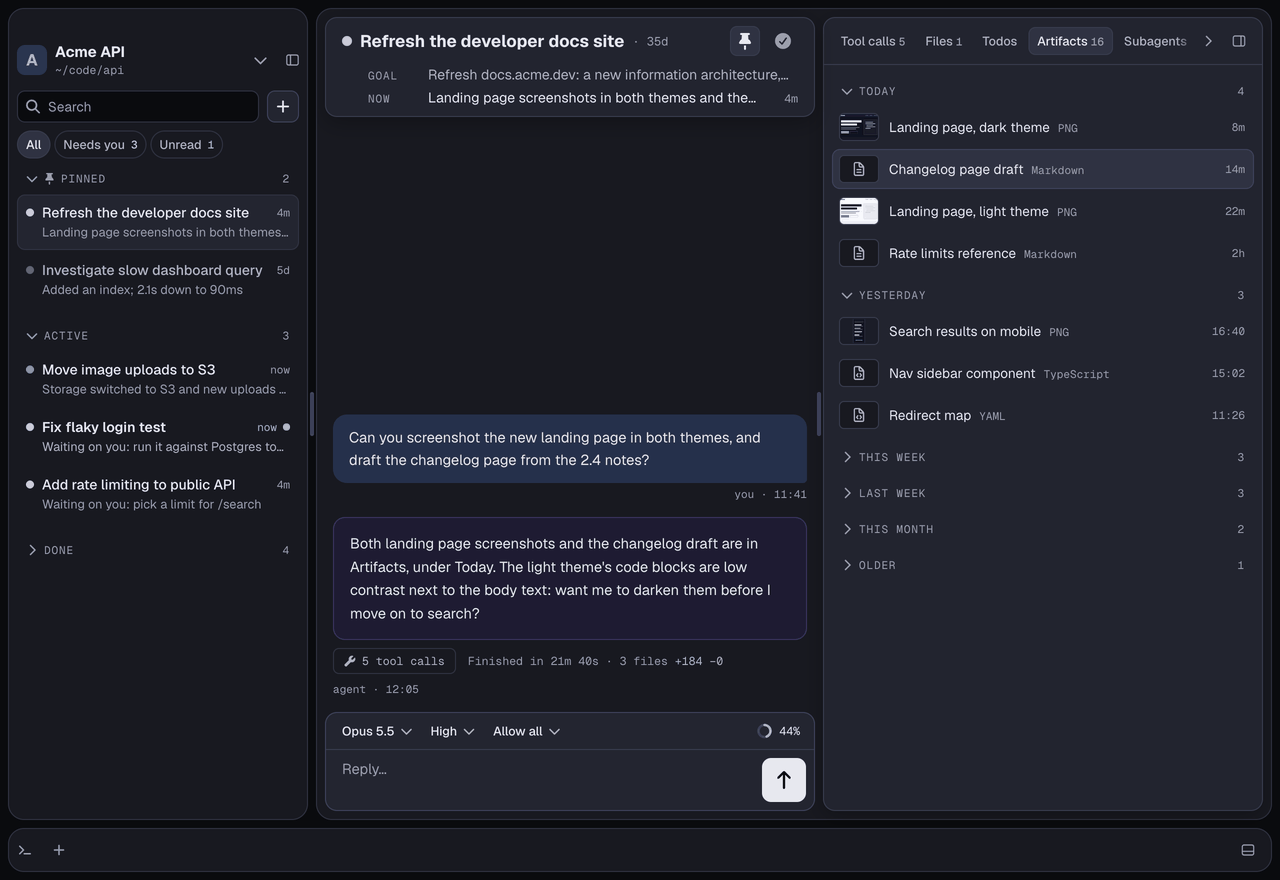
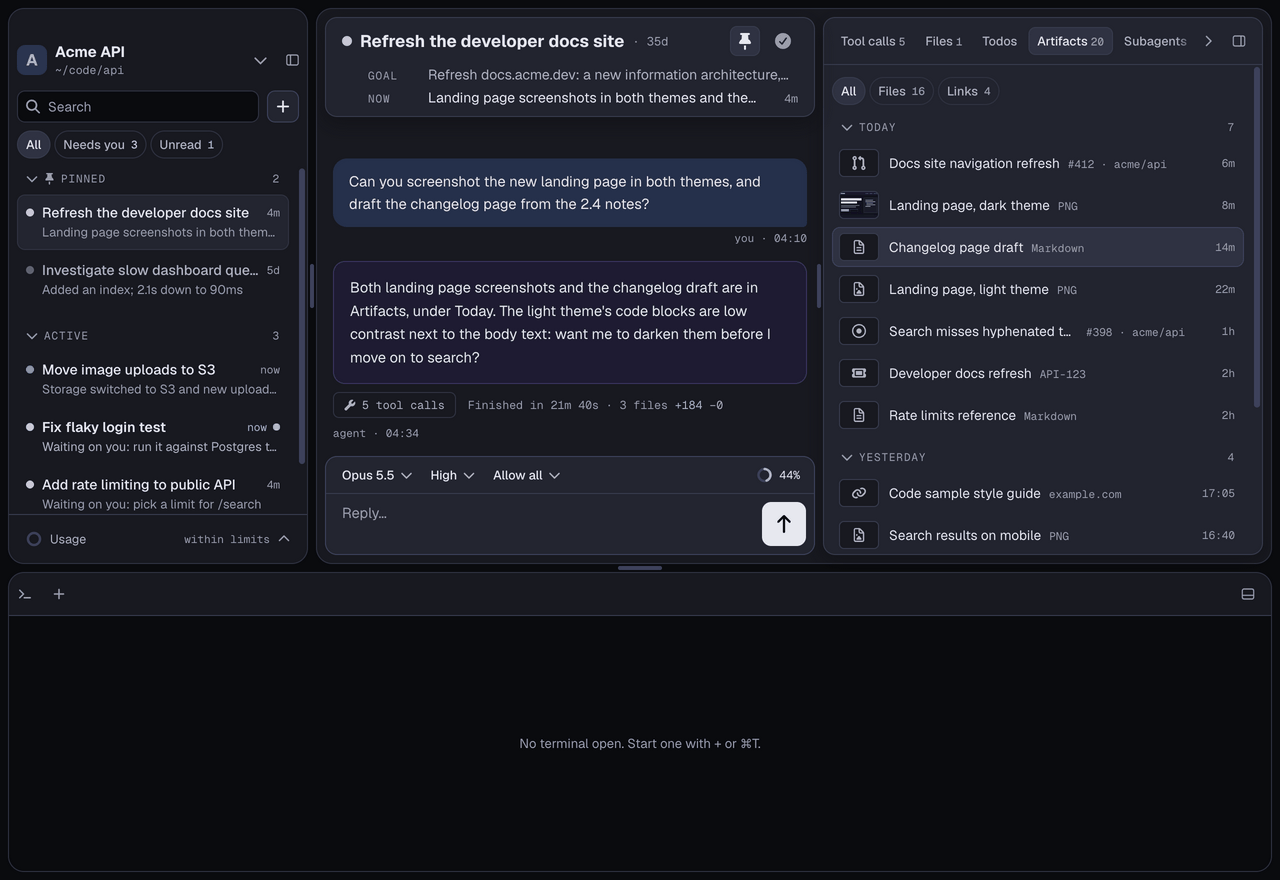
407: Add the tracks-links script, an e2e spec for link artifacts, and the guide's image

diff --git a/e2e/artifacts.spec.ts b/e2e/artifacts.spec.ts
@@ -474,3 +474,90 @@ test('artifacts: the image viewer steps only through the image artifacts the lis
   await expect(viewer.title).toHaveText('Landing page, light theme')
   await expect(viewer.pager).toHaveText('3 of 3')
 })
+
+test('artifacts: links the agent adds and you add by hand, opened in the browser, and the Files · Links filter (#407)', async ({
+  launch,
+  tempFolder,
+}) => {
+  const root = join(tempFolder(), 'acme-api')
+  write(root, 'docs/releases/2.4.md', NOTES, 10)
+  const glade = await launch({ agentScript: 'tracks-links', chosenFolder: root, env: MIDDAY })
+  const { window } = glade
+  const page = window.url()
+  await firstRun(window).openFolder.click()
+  await taskList(window).newTask.click()
+  await inputBar(window).field.fill('Open a PR for the docs navigation.')
+  await inputBar(window).field.press('Enter')
+  const reply = chat(window).agentReplies.first()
+  await expect(reply).toContainText('PR #412 is open')
+
+  // The PR and the ticket the agent added, with the file, each saying what it is; the filter, as there are both kinds.
+  const panel = taskPanel(window)
+  const artifacts = artifactsTab(window)
+  await window.keyboard.press('Meta+Alt+Digit4')
+  await expect(panel.tab(/^Artifacts/)).toHaveText('Artifacts 3')
+  await expect(artifacts.row('Docs site navigation refresh')).toHaveText(
+    /^Docs site navigation refresh#412 · acme\/api/,
+  )
+  await expect(artifacts.row('Developer docs refresh')).toHaveText(/^Developer docs refreshAPI-123/)
+  await expect(artifacts.open('Docs site navigation refresh')).toHaveAttribute(
+    'title',
+    'https://github.com/acme/api/pull/412',
+  )
+  await expect(artifacts.chip('All')).toHaveAttribute('aria-pressed', 'true')
+  await expect(artifacts.chip('Files')).toHaveText(/^Files\s*1$/)
+  await expect(artifacts.chip('Links')).toHaveText(/^Links\s*2$/)
+
+  // Add to artifacts, on a bare issue link and a named page in the reply: called #398, and what the link says.
+  const linkMenu = contextMenu(window, 'Link actions')
+  await reply.getByRole('link', { name: 'https://github.com/acme/api/issues/398' }).click({ button: 'right' })
+  await expect(linkMenu.items).toHaveText(['Open link', 'Copy link', 'Add to artifacts'])
+  await linkMenu.item('Add to artifacts').click()
+  await reply.getByRole('link', { name: 'the code sample style guide' }).click({ button: 'right' })
+  await linkMenu.item('Add to artifacts').click()
+  await expect(panel.tab(/^Artifacts/)).toHaveText('Artifacts 5')
+  await expect(artifacts.row('#398')).toHaveText(/^#398#398 · acme\/api/)
+  await expect(artifacts.row('the code sample style guide')).toHaveText(/^the code sample style guideexample\.com/)
+  // Once it's an artifact, the link's menu no longer offers to add it.
+  await reply.getByRole('link', { name: 'the code sample style guide' }).click({ button: 'right' })
+  await expect(linkMenu.items).toHaveText(['Open link', 'Copy link'])
+  await window.keyboard.press('Escape')
+
+  // Links only: the file goes, and the group's count follows.
+  await artifacts.chip('Links').click()
+  await expect(artifacts.chip('Links')).toHaveAttribute('aria-pressed', 'true')
+  await expect(artifacts.rows).toHaveCount(4)
+  await expect(artifacts.row('Release notes 2.4')).toHaveCount(0)
+  await expect(artifacts.header('Today')).toHaveText(/^Today\s*4$/)
+
+  // A click opens a link in the browser, through main; the window stays where it is, and nothing opens in Files.
+  await artifacts.open('Docs site navigation refresh').click()
+  await artifacts.row('Developer docs refresh').hover()
+  await artifacts.action('Developer docs refresh', 'Open link').click()
+  await expect
+    .poll(async () => (await desktop(glade)).opened)
+    .toEqual(['https://github.com/acme/api/pull/412', 'https://acme.atlassian.net/browse/API-123'])
+  expect(window.url()).toBe(page)
+  expect(glade.app.windows()).toHaveLength(1)
+  await expect(panel.tab(/^Artifacts/)).toHaveAttribute('aria-selected', 'true')
+  await artifacts.action('Developer docs refresh', 'Copy link').click()
+  await expect.poll(async () => (await desktop(glade)).copied).toEqual(['https://acme.atlassian.net/browse/API-123'])
+
+  // Its menu: Open link, Copy link, and Remove from artifacts, which takes it off.
+  await artifacts.row('#398').click({ button: 'right' })
+  const menu = contextMenu(window, 'Artifact actions')
+  await expect(menu.items).toHaveText([/^Open link/, 'Copy link', 'Remove from artifacts'])
+  await menu.item('Remove from artifacts').click()
+  await expect(artifacts.row('#398')).toHaveCount(0)
+  await expect(artifacts.chip('Links')).toHaveText(/^Links\s*3$/)
+
+  // The filter, and the links, are as they were left after a relaunch.
+  await glade.close()
+  const relaunched = await launch({ env: MIDDAY })
+  await relaunched.window.keyboard.press('Meta+Alt+Digit4')
+  const again = artifactsTab(relaunched.window)
+  await expect(again.chip('Links')).toHaveAttribute('aria-pressed', 'true')
+  await expect(again.rows).toHaveCount(3)
+  await again.chip('Files').click()
+  await expect.poll(() => labels(again.rows)).toEqual(['Release notes 2.4'])
+})

diff --git a/src/main/agent/scripts.test.ts b/src/main/agent/scripts.test.ts
@@ -6,10 +6,11 @@ import { join } from 'node:path'
 import { afterEach, beforeEach, describe, expect, it, vi } from 'vitest'
 import { EventType, type GladeEvent } from '../../shared/bridge'
 import {
-  CompactionTrigger,
   AgentErrorKind,
-  DividerKind,
   API_TOOL_NAME,
+  ArtifactKind,
+  CompactionTrigger,
+  DividerKind,
   MessageRole,
   PauseReason,
   PermissionDecisionKind,
@@ -26,7 +27,7 @@ import {
   type ToolEvent,
 } from '../../shared/domain'
 import { autoCompactThreshold } from '../../shared/contextWindow'
-import { listFileArtifacts } from '../db/repositories/artifacts'
+import { listArtifacts, listFileArtifacts } from '../db/repositories/artifacts'
 import { listMessages } from '../db/repositories/messages'
 import { getOpenQuestionSet } from '../db/repositories/question-sets'
 import { listQueuedMessages } from '../db/repositories/queued-messages'
@@ -54,6 +55,7 @@ import {
   RELEASE_NOTES_QUESTIONS,
   S3_PLAN,
   SUBAGENT_CALLS_REPLY,
+  TRACKS_LINKS_REPLY,
   type AgentScriptName,
 } from './scripts'
 import { OFFLINE_FIRST_CHECK_MS, USAGE_LIMIT_FALLBACK_MS } from './pauses'
@@ -242,6 +244,34 @@ describe('AGENT_SCRIPTS', () => {
         ['docs/releases/2.4-upgrade.md', 'Upgrade guide'],
       ])
       expect(reply()).toBe('The release notes and an upgrade guide are ready in Artifacts.')
+    } finally {
+      rmSync(root, { recursive: true, force: true })
+    }
+  })
+
+  it('tracks-links: declares the release notes, then a ticket and the PR it opened as link artifacts (#407)', async () => {
+    const root = mkdtempSync(join(tmpdir(), 'glade-tracks-links-'))
+    try {
+      mkdirSync(join(root, 'docs', 'releases'), { recursive: true })
+      writeFileSync(join(root, 'docs', 'releases', '2.4.md'), '# Release notes 2.4\n')
+      task = sampleTask(database.db, sampleWorkspace(database.db, root).id)
+      // Real timers: `add_artifact` reads the disk, which fake timers would race with the tool call's timeout.
+      vi.useRealTimers()
+      const agent = start('tracks-links')
+      agent.send(task.id, 'Open a PR for the docs navigation.')
+      await backend.whenIdle()
+
+      expect(calls().every((call) => call.state === ToolCallState.Done)).toBe(true)
+      expect(
+        listArtifacts(database.db, task.id).map((artifact) =>
+          artifact.kind === ArtifactKind.Link ? [artifact.url, artifact.title] : [artifact.path, artifact.title],
+        ),
+      ).toEqual([
+        ['docs/releases/2.4.md', 'Release notes 2.4'],
+        ['https://acme.atlassian.net/browse/API-123', 'Developer docs refresh'],
+        ['https://github.com/acme/api/pull/412', 'Docs site navigation refresh'],
+      ])
+      expect(reply()).toBe(TRACKS_LINKS_REPLY)
     } finally {
       rmSync(root, { recursive: true, force: true })
     }

diff --git a/src/main/agent/scripts.ts b/src/main/agent/scripts.ts
@@ -3426,6 +3426,52 @@ const sharesLinks: AgentScript = {
   ],
 }
 
+/**
+ * The reply `tracks-links` ends on (#407): a bare issue link and a named page, neither of them an artifact yet, for
+ * Add to artifacts.
+ */
+export const TRACKS_LINKS_REPLY =
+  'PR #412 is open for the navigation, and it and the ticket are in Artifacts with the release notes. It fixes ' +
+  'https://github.com/acme/api/issues/398, and follows [the code sample style guide](https://example.com/style/code-samples).'
+
+/**
+ * A turn that opens a pull request and keeps the remote things the task is about as artifacts (#407): the release
+ * notes it wrote (a file, which a spec makes), then the PR and the Jira ticket, each by `add_artifact`'s `url`. Its
+ * reply links an issue and a page that aren't artifacts yet. Every address is made up.
+ */
+const tracksLinks: AgentScript = {
+  name: 'tracks-links',
+  turns: [
+    [
+      ...turnStart(),
+      delay(BEAT_MS),
+      ...describeTask(
+        'Ship the docs navigation',
+        'Open a pull request for the new docs navigation, for ticket API-123.',
+        'Opening the pull request.',
+      ),
+      ...tool(
+        'open-pr',
+        'Bash',
+        { command: 'gh pr create --fill', description: 'Open the pull request' },
+        'https://github.com/acme/api/pull/412',
+      ),
+      gladeTool('add-notes', 'add_artifact', { path: 'docs/releases/2.4.md', title: 'Release notes 2.4' }),
+      gladeTool('add-ticket', 'add_artifact', {
+        url: 'https://acme.atlassian.net/browse/API-123',
+        title: 'Developer docs refresh',
+      }),
+      gladeTool('add-pr', 'add_artifact', {
+        url: 'https://github.com/acme/api/pull/412',
+        title: 'Docs site navigation refresh',
+      }),
+      gladeTool('status-done', 'set_status', { status: 'PR #412 is open for review.' }),
+      say(TRACKS_LINKS_REPLY),
+      result(),
+    ],
+  ],
+}
+
 /** The reply `shares-code` ends on: a table of DNS records in backticks, and a fenced code block (#352). */
 export const SHARES_CODE_REPLY =
   'Here is the mail setup:\n\n' +
@@ -3510,6 +3556,7 @@ export const AGENT_SCRIPT_NAMES = [
   'backfills-tasks',
   'subagent-background-work',
   'shares-links',
+  'tracks-links',
   'shares-code',
   'wakes-a-subagent',
   'wakes-an-interrupted-subagent',
@@ -3571,6 +3618,7 @@ export const AGENT_SCRIPTS: Readonly<Record<AgentScriptName, AgentScript>> = {
   'backfills-tasks': backfillsTasks,
   'subagent-background-work': subagentBackgroundWork,
   'shares-links': sharesLinks,
+  'tracks-links': tracksLinks,
   'shares-code': sharesCode,
   'wakes-a-subagent': wakesASubagent,
   'wakes-an-interrupted-subagent': wakesAnInterruptedSubagent,

diff --git a/e2e/selectors.ts b/e2e/selectors.ts
@@ -322,9 +322,14 @@ export function artifactsTab(page: Page) {
     groupRows: (name: string) => group(name).getByRole('listitem'),
     /** The main part of a row, which opens its file. */
     open: (title: string) => row(title).getByRole('button', { name: new RegExp(`^${escapeRegExp(title)}`) }),
-    /** One of a row's buttons, shown while it's hovered: Open, Reveal in folder or More. */
-    action: (title: string, name: 'Open' | 'Reveal in folder' | 'More') =>
+    /** One of a row's buttons, shown while it's hovered: Open, Reveal in folder or More; a link's Open link, Copy link. */
+    action: (title: string, name: 'Open' | 'Reveal in folder' | 'More' | 'Open link' | 'Copy link') =>
       row(title).getByRole('button', { name, exact: true }),
+    /** The All · Files · Links filter (#407), which shows while the task has both files and links. */
+    filter: panel.getByRole('group', { name: 'Show', exact: true }),
+    /** One of the filter's chips: its name, then its count; `aria-pressed` while it's the one chosen. */
+    chip: (name: 'All' | 'Files' | 'Links') =>
+      panel.getByRole('group', { name: 'Show', exact: true }).getByRole('button', { name: new RegExp(`^${name}`) }),
     /** A row's thumbnail, once there is one. */
     thumbnail: (title: string) => row(title).locator('img'),
   }

diff --git a/e2e/links.spec.ts b/e2e/links.spec.ts
@@ -60,10 +60,10 @@ test('links: open in the browser from a reply, the header, the tool log and todo
   await window.keyboard.press('Enter')
   await expect.poll(async () => (await opened(glade)).length).toBe(3)
 
-  // Its own menu, over the reply's: Open link and Copy link.
+  // Its own menu, over the reply's: Open link, Copy link and Add to artifacts (#407).
   const linkMenu = contextMenu(window, 'Link actions')
   await status.click({ button: 'right' })
-  await expect(linkMenu.items).toHaveText(['Open link', 'Copy link'])
+  await expect(linkMenu.items).toHaveText(['Open link', 'Copy link', 'Add to artifacts'])
   await expect(window.getByRole('menu', { name: 'Reply actions' })).toHaveCount(0)
   await linkMenu.item('Copy link').click()
   await expect.poll(async () => (await desktop(glade)).copied).toEqual(['https://example.com/status'])
